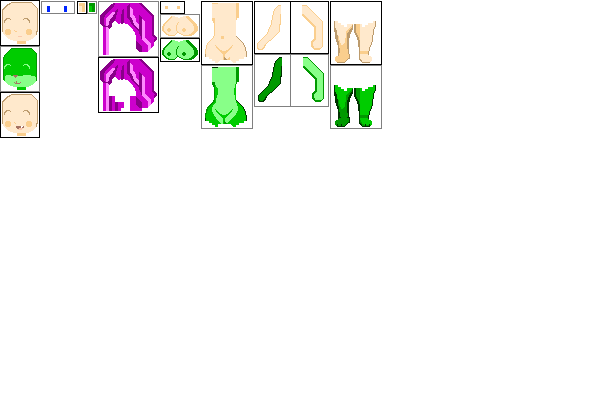
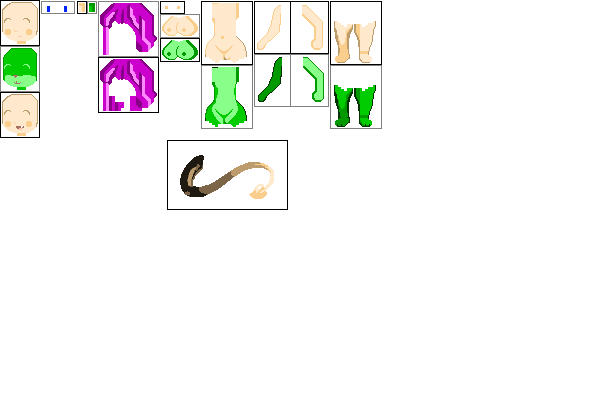
skin2 and partial scales, demon tail

Changed region(s): [[0.3, 0.39, 0.45, 0.51], [0.42, 0.42, 0.48, 0.51], [0.45, 0.51, 0.48, 0.54]]

diff --git a/devTools/spred/spred.js b/devTools/spred/spred.js
@@ -5,6 +5,9 @@ function RGBA(i) {
         | (rgb.g & 0xff) << 8
         | (rgb.r & 0xff)) >>> 0;
 }
+function bound(min, x, max = Infinity) {
+    return min < x ? x < max ? x : max : min;
+}
 function randint(n) {
     return Math.floor(Math.random() * n);
 }
@@ -96,9 +99,9 @@ var spred;
         let hsl = tc.clone().toHsl();
         switch (name) {
             case 'lighten':
-                if (value == 0)
-                    return tc;
-                return tinycolor({ h: hsl.h, s: hsl.s, l: (1.0 - hsl.l) * 100 / value });
+                let l2a = hsl.l + (1.0 - hsl.l) * value / 100;
+                let l2b = bound(0, hsl.l + value / 100, 1);
+                return tinycolor({ h: hsl.h, s: hsl.s, l: Math.max(l2a, l2b) });
             case 'darken':
                 return tinycolor({ h: hsl.h, s: hsl.s, l: hsl.l * (100 - value) / 100 });
         }
@@ -975,10 +978,71 @@ var spred;
                 })));
             }
             selPart(model.layers[0].parts[0]);
-            addCompositeView(defaultPartList(), 2);
-            addCompositeView(defaultPartList(), 1);
-            addCompositeView(defaultPartList(), 1);
-            addCompositeView(defaultPartList(), 1);
+            addCompositeView([
+                'ears_bg/human',
+                'eyes/human',
+                'hair/0', 'hair_bg/0',
+                'face/human',
+                'breasts/D',
+                'arms/human', 'arms_bg/human',
+                'legs/human',
+                'torso/human'
+            ]);
+            addCompositeView([
+                'ears/orca',
+                'eyes/orca',
+                'hair/0', 'hair_bg/0',
+                'face/orca',
+                'breasts/D',
+                'arms/orca', 'arms_bg/orca', 'arms/fins-orca', 'arms_bg/fins-orca',
+                'legs/orca',
+                'torso/orca',
+                'tail/orca'
+            ]);
+            addCompositeView([
+                'ears/cat',
+                'eyes/cat',
+                'hair/0', 'hair_bg/0',
+                'face/fur',
+                'breasts/Dfur',
+                'arms/fur', 'arms_bg/fur',
+                'legs/furpaws',
+                'torso/fur',
+                'tail/cat1', 'tail/cat2'
+            ]);
+            addCompositeView([
+                'ears/human',
+                'eyes/manticore',
+                'hair/0', 'hair_bg/0',
+                'face/human', 'neck/manticore',
+                'breasts/D',
+                'arms/manticore',
+                'legs/manticore_sit',
+                'torso/human',
+                'tail/manticore',
+                'wings/mantibig', 'wings_bg/mantibig'
+            ]);
+            addCompositeView([
+                'hair/gorgon', 'hair_bg/gorgon',
+                'eyes/cat',
+                'face/scales2',
+                'breasts/Dscales2',
+                'arms_bg/scales2', 'arms/scales2',
+                'legs/naga',
+                'torso/scales2'
+            ]);
+            addCompositeView([
+                'horns/2large',
+                'eyes/cat',
+                'face/scales',
+                'breasts/Dscales',
+                'arms/scales', 'arms_bg/scales',
+                'legs/scales',
+                'torso/scales',
+                'tail/reptile',
+                'wings/scales_right',
+                'wings_bg/scales_left',
+            ]);
             $('#ClipboardGrabber').on('paste', e => {
                 e.stopPropagation();
                 e.preventDefault();

diff --git a/devTools/spred/spred.ts b/devTools/spred/spred.ts
@@ -28,8 +28,9 @@ namespace spred {
 		let hsl = tc.clone().toHsl();
 		switch (name) {
 			case 'lighten':
-				if (value == 0) return tc;
-				return tinycolor({h: hsl.h, s: hsl.s, l: (1.0 - hsl.l) * 100 / value});
+				let l2a = hsl.l + (1.0 - hsl.l) * value / 100;
+				let l2b = bound(0,hsl.l + value/100,1);
+				return tinycolor({h: hsl.h, s: hsl.s, l: Math.max(l2a,l2b)});
 			case 'darken':
 				return tinycolor({h: hsl.h, s: hsl.s, l: hsl.l * (100 - value) / 100});
 		}
@@ -1083,10 +1084,71 @@ namespace spred {
 				);
 			}
 			selPart(model.layers[0].parts[0]);
-			addCompositeView(defaultPartList(), 2);
-			addCompositeView(defaultPartList(), 1);
-			addCompositeView(defaultPartList(), 1);
-			addCompositeView(defaultPartList(), 1);
+			addCompositeView([
+				'ears_bg/human',
+				'eyes/human',
+				'hair/0','hair_bg/0',
+				'face/human',
+				'breasts/D',
+				'arms/human','arms_bg/human',
+				'legs/human',
+				'torso/human'
+			]);
+			addCompositeView([
+				'ears/orca',
+				'eyes/orca',
+				'hair/0','hair_bg/0',
+				'face/orca',
+				'breasts/D',
+				'arms/orca','arms_bg/orca','arms/fins-orca','arms_bg/fins-orca',
+				'legs/orca',
+				'torso/orca',
+				'tail/orca'
+			]);
+			addCompositeView([
+				'ears/cat',
+				'eyes/cat',
+				'hair/0','hair_bg/0',
+				'face/fur',
+				'breasts/Dfur',
+				'arms/fur','arms_bg/fur',
+				'legs/furpaws',
+				'torso/fur',
+				'tail/cat1','tail/cat2'
+			]);
+			addCompositeView([
+				'ears/human',
+				'eyes/manticore',
+				'hair/0','hair_bg/0',
+				'face/human','neck/manticore',
+				'breasts/D',
+				'arms/manticore',
+				'legs/manticore_sit',
+				'torso/human',
+				'tail/manticore',
+				'wings/mantibig','wings_bg/mantibig'
+			]);
+			addCompositeView([
+				'hair/gorgon','hair_bg/gorgon',
+				'eyes/cat',
+				'face/scales2',
+				'breasts/Dscales2',
+				'arms_bg/scales2','arms/scales2',
+				'legs/naga',
+				'torso/scales2'
+			]);
+			addCompositeView([
+				'horns/2large',
+				'eyes/cat',
+				'face/scales',
+				'breasts/Dscales',
+				'arms/scales','arms_bg/scales',
+				'legs/scales',
+				'torso/scales',
+				'tail/reptile',
+				'wings/scales_right',
+				'wings_bg/scales_left',
+			]);
 			$('#ClipboardGrabber').on('paste', e => {
 				e.stopPropagation();
 				e.preventDefault();

diff --git a/devTools/spred/utils.ts b/devTools/spred/utils.ts
@@ -15,6 +15,10 @@ function RGBA(i: tinycolorInstance): number {
 		   ) >>> 0;
 }
 
+function bound(min:number,x:number,max:number=Infinity):number {
+	return min < x ? x < max ? x : max : min;
+}
+
 function randint(n: number): number {
 	return Math.floor(Math.random() * n);
 }
